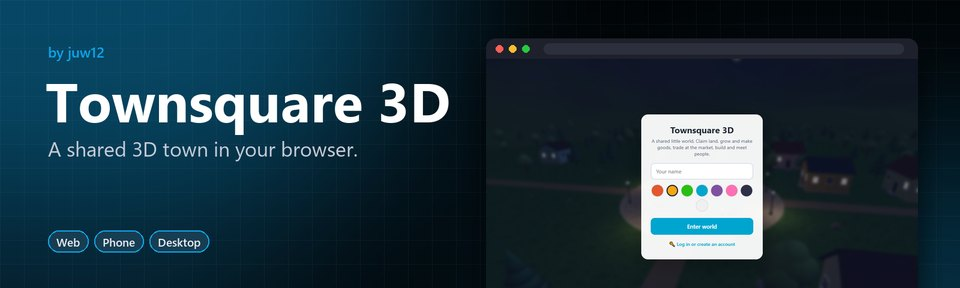
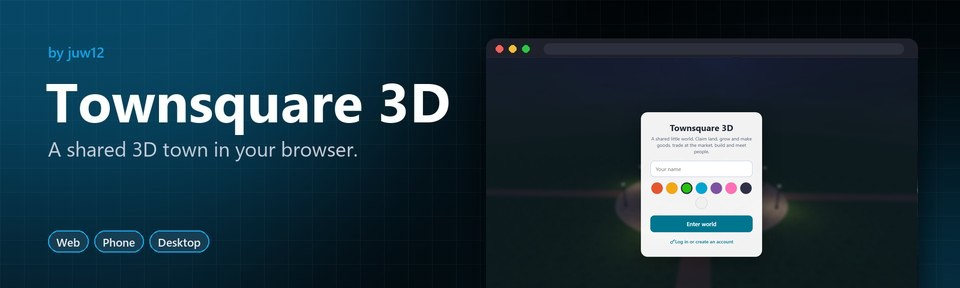
profile: update townsquare-3d

diff --git a/README.md b/README.md
@@ -313,7 +313,7 @@
     </td>
     <td width="50%" valign="top">
       <a href="https://juw12.github.io/portfolio/townsquare-3d/"><img src="media/townsquare-3d.jpg" alt="Townsquare 3D" width="100%"></a><br>
-      <b><a href="https://juw12.github.io/portfolio/townsquare-3d/">Townsquare 3D</a></b>: A shared 3D town for phone and desktop browsers: claim land, run crops and workshops, trade at a market that follows supply and demand.<br>
+      <b><a href="https://juw12.github.io/portfolio/townsquare-3d/">Townsquare 3D</a></b>: A shared 3D town for phone and desktop browsers: claim land, run crops and workshops, trade at a market that follows supply and demand. Clean interface: one line-icon set, no emoji.<br>
       <sub><a href="https://juw12.github.io/portfolio/townsquare-3d/">Play</a> · <a href="https://juw12.github.io/p/townsquare-3d/">Landing page</a> · <a href="https://github.com/juw12/portfolio/tree/main/townsquare-3d#readme">README</a></sub>
     </td>
   </tr>
